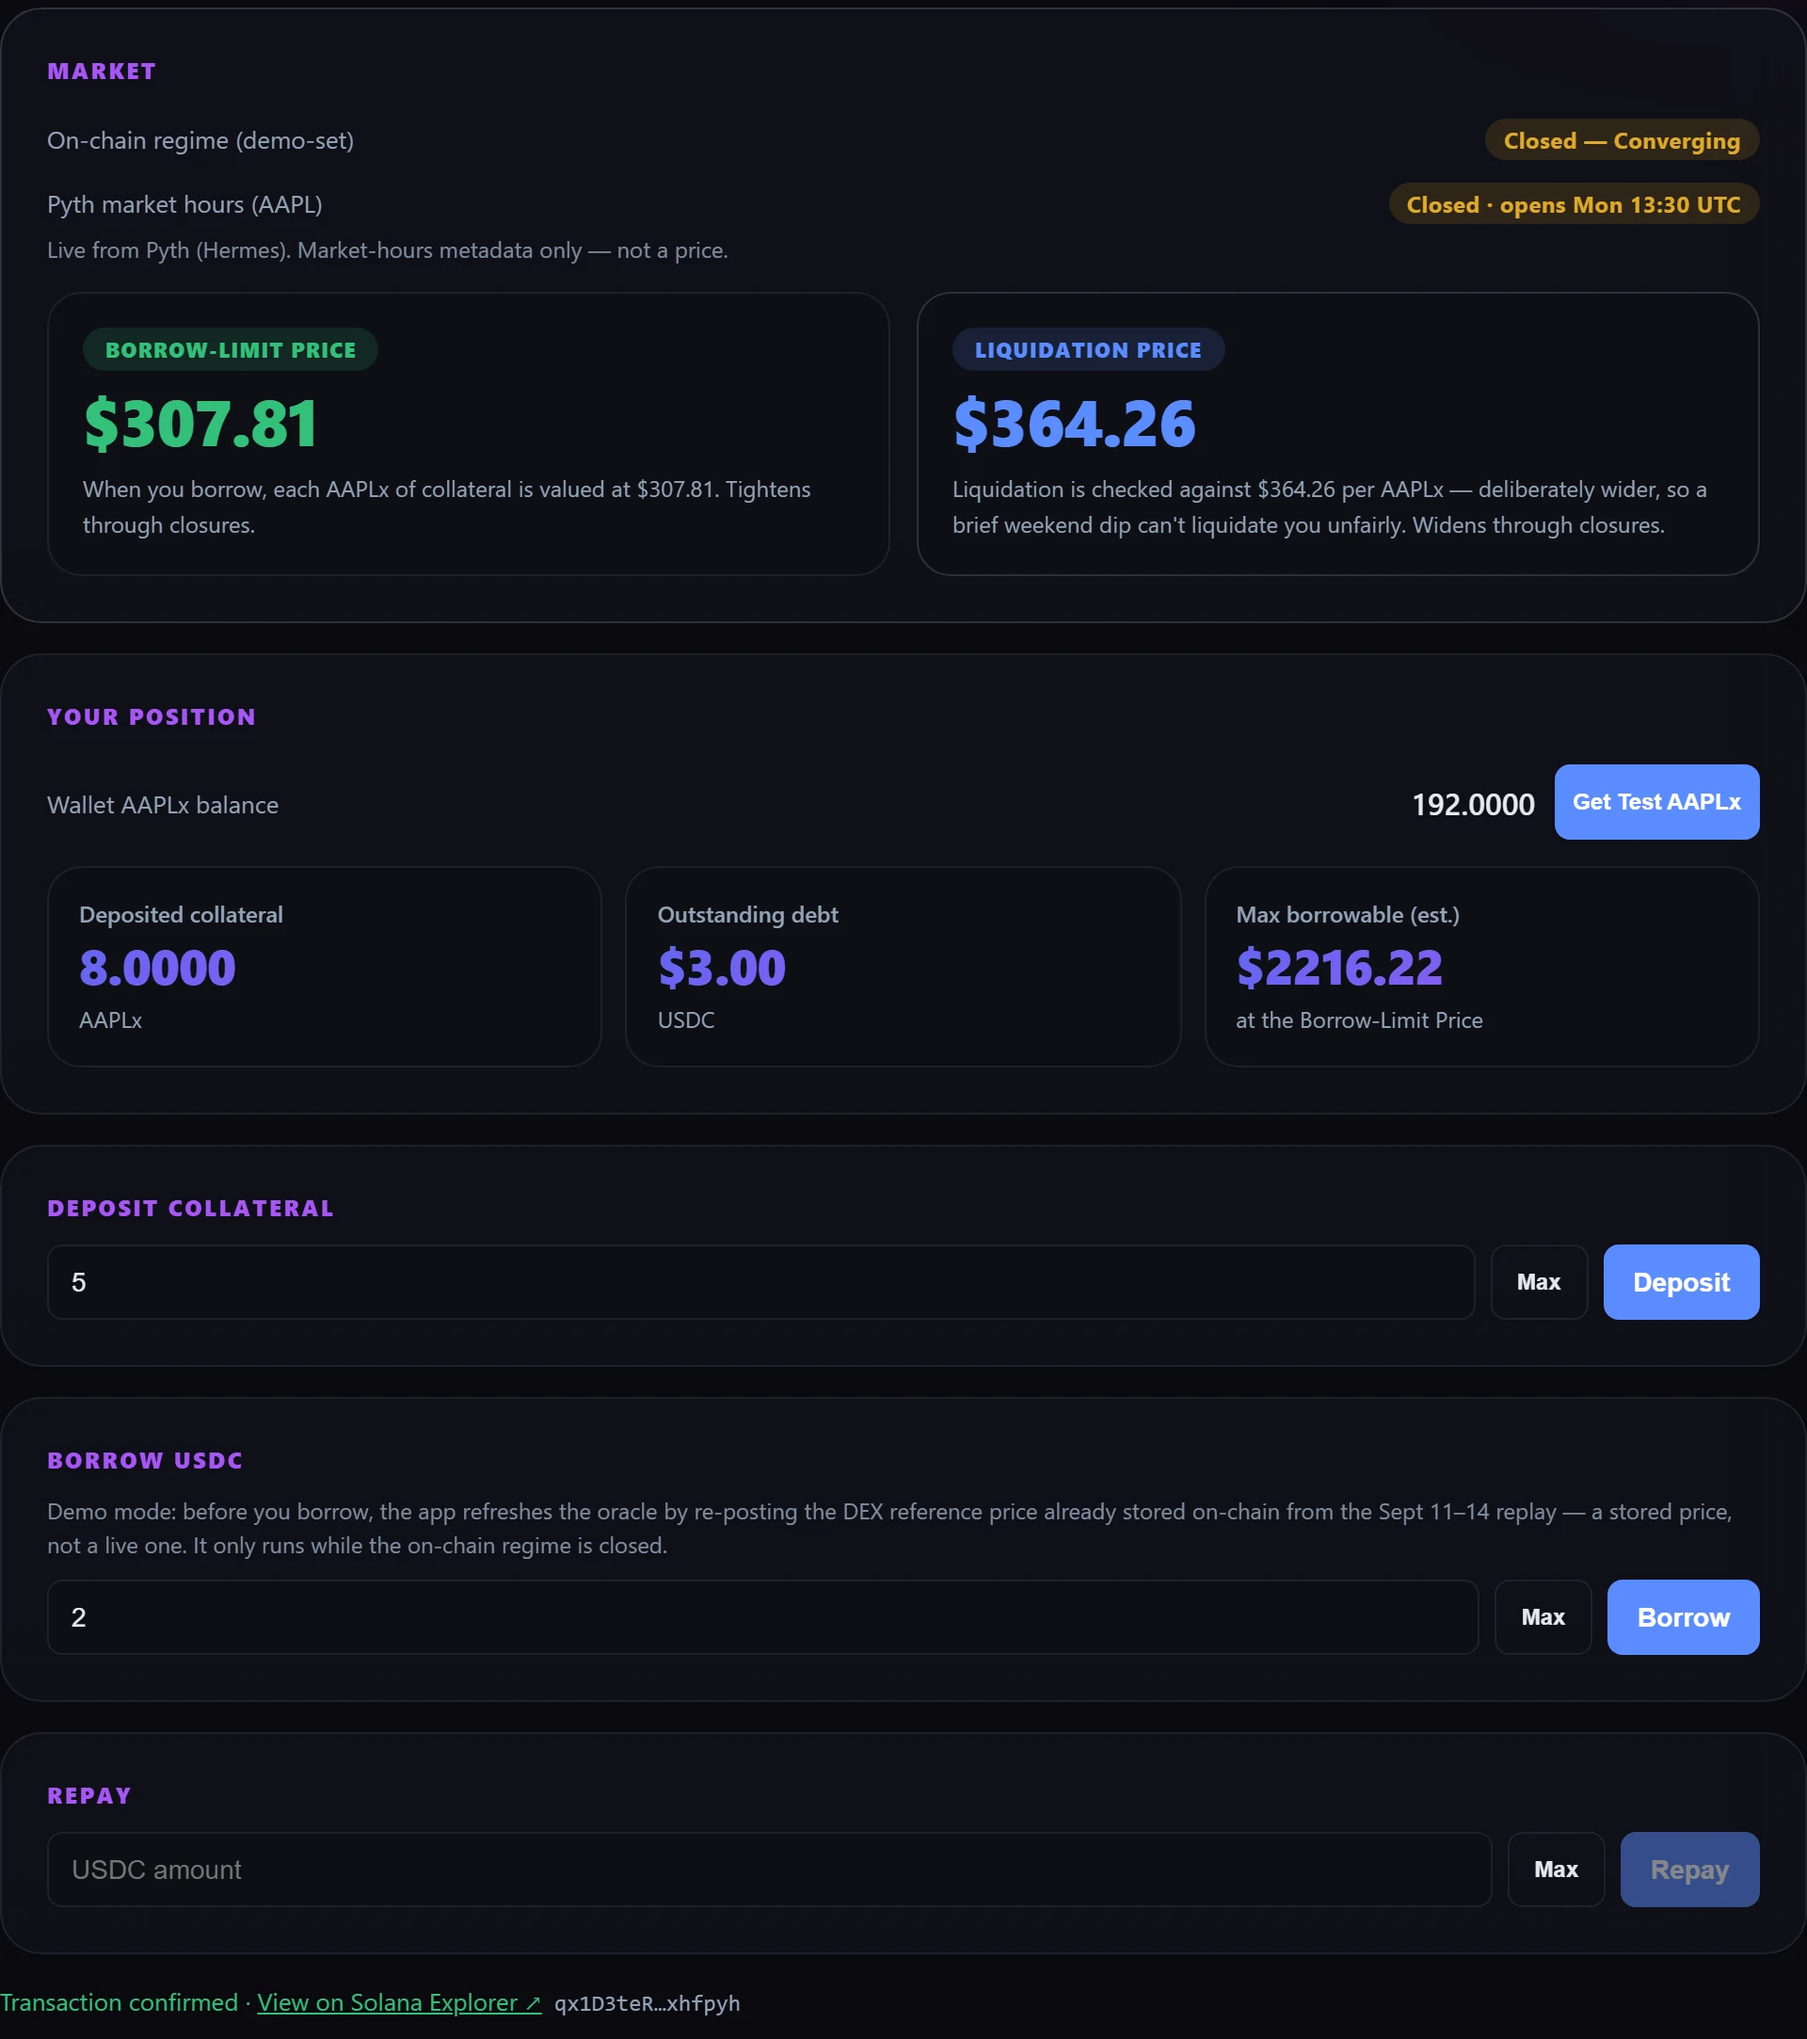
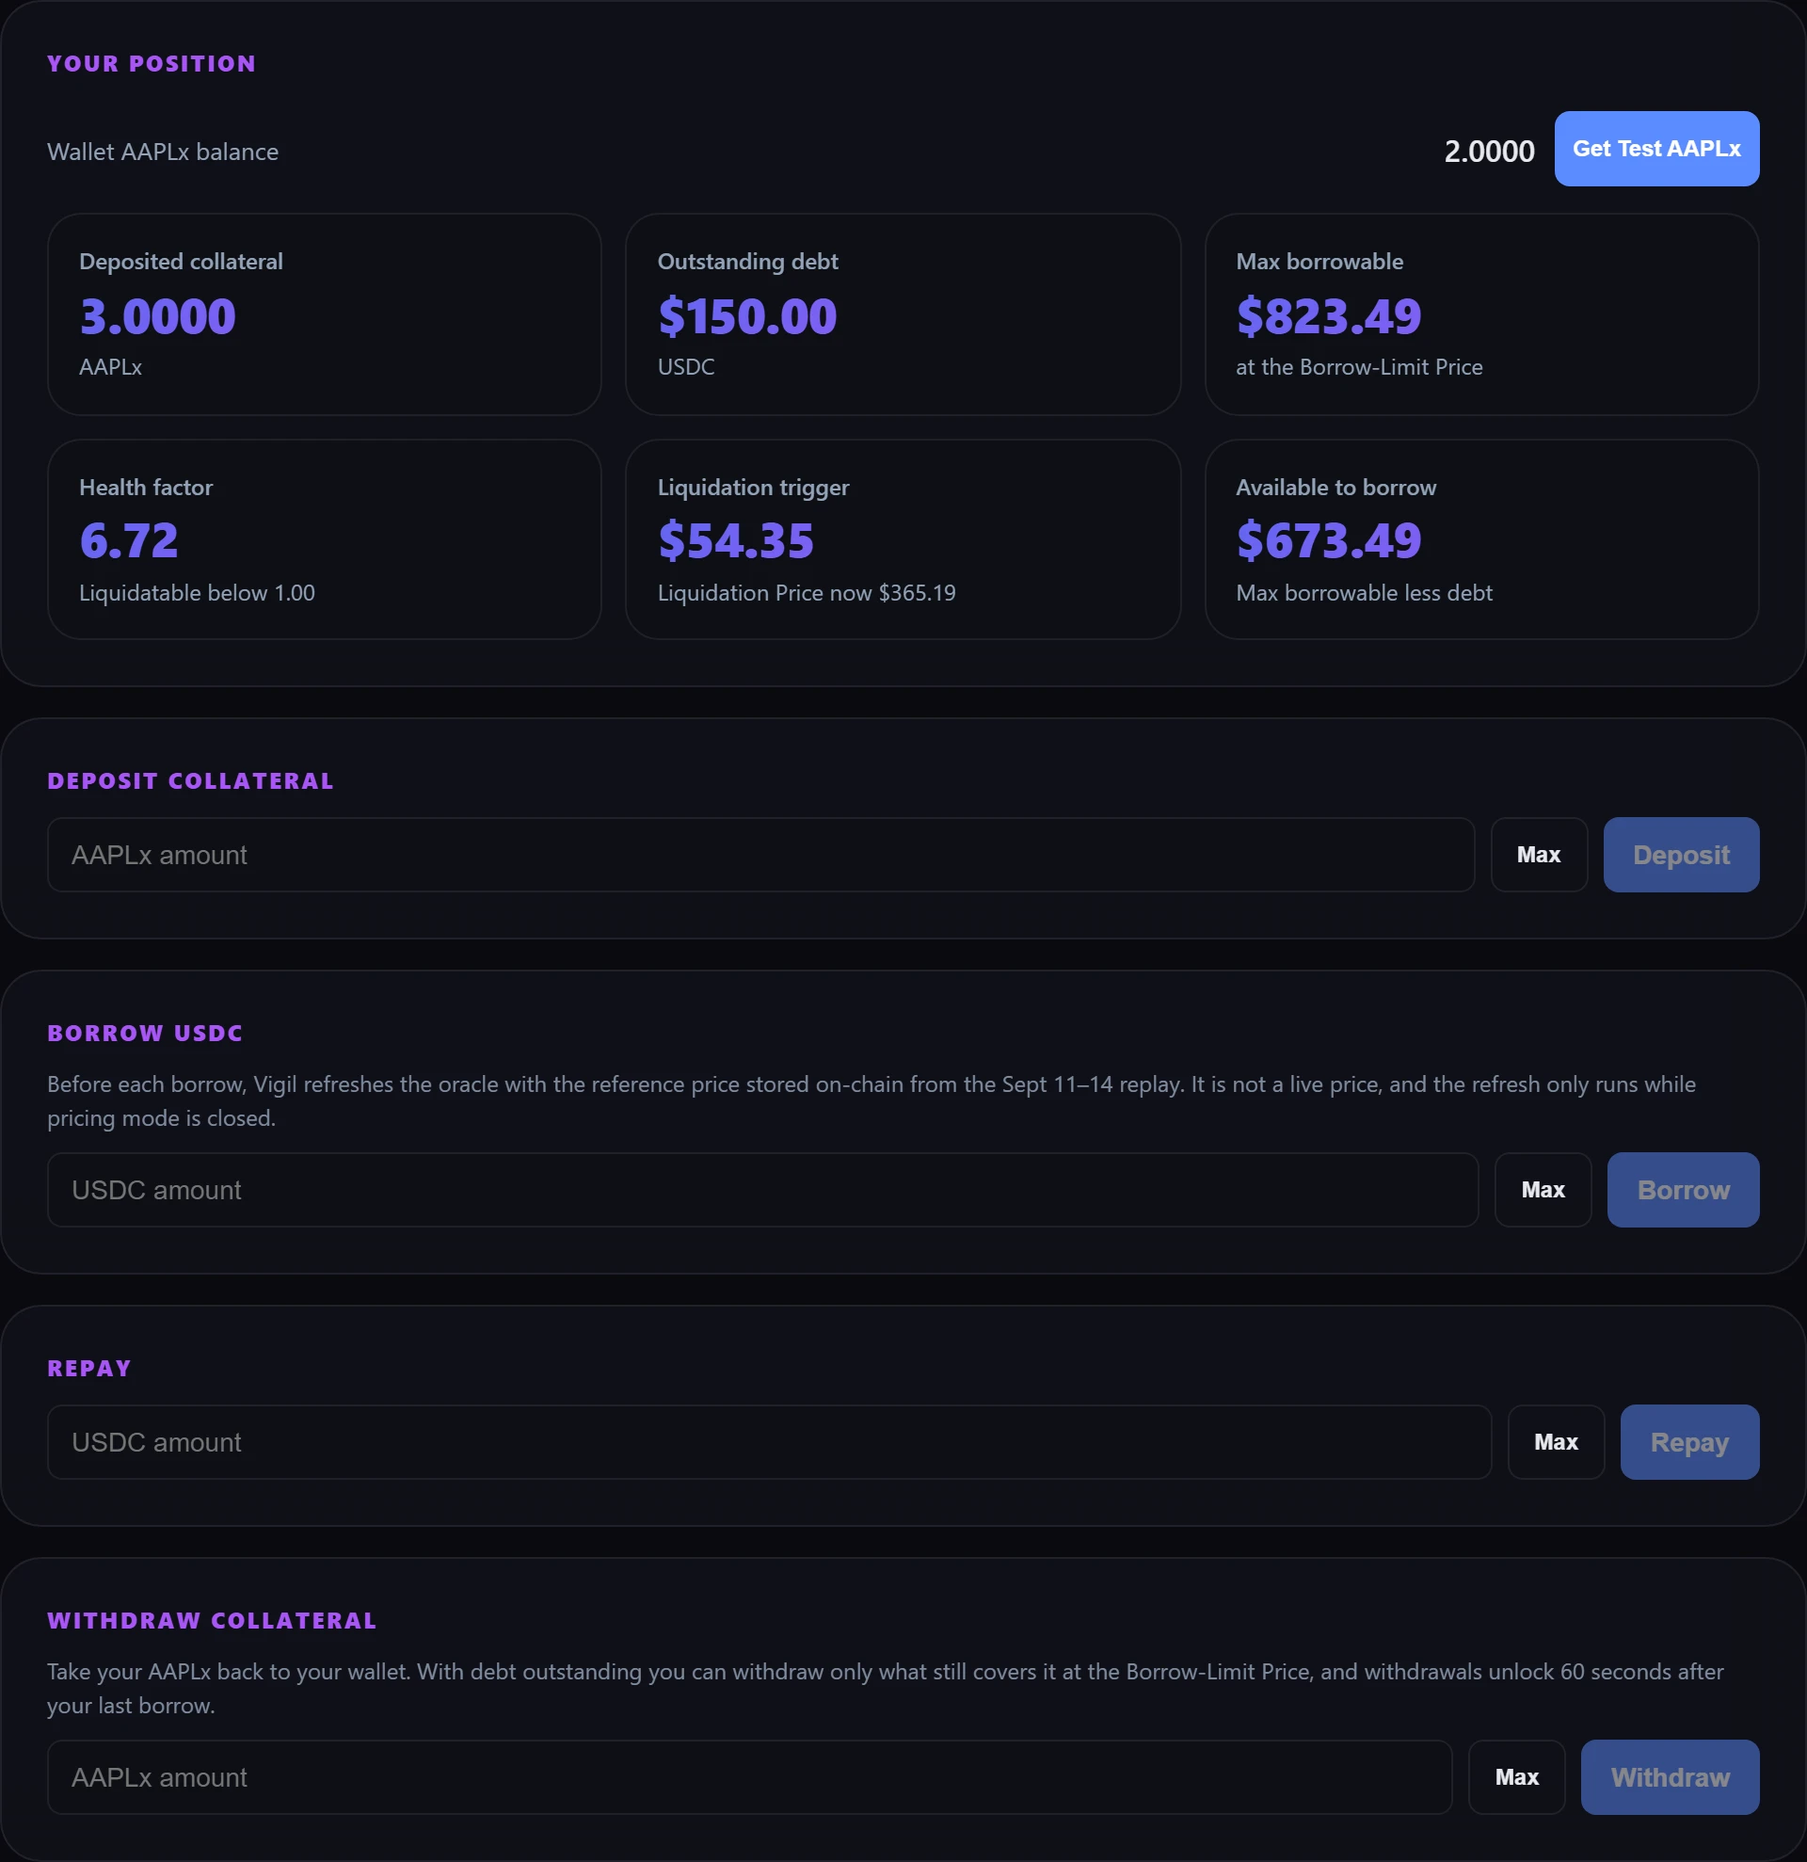
Replace the stale dashboard images on the landing page with the current app
The "What you actually do" section still showed the pre-redesign dashboard: "Demo mode: before you borrow…",
"Max borrowable (est.)", no health factor and no Withdraw form. Both images are regenerated from the current app with a
real position on devnet (an injected-wallet run: deposit 3 AAPLx and borrow $150 through the UI, then repay and withdraw
so the reserve is left as found).

Desktop (1920x1978): Your Position with deposited collateral, debt, max borrowable, health factor 6.72, liquidation
trigger and available to borrow, above the Deposit, Borrow, Repay and Withdraw forms. Mobile (780x1520): the position
summary on a phone. The page text was asserted before capture (Health factor, Liquidation trigger and Withdraw present,
no "Demo mode"). Alt text and intrinsic dimensions on the landing page updated to match.

diff --git a/app/components/LandingSections.tsx b/app/components/LandingSections.tsx
@@ -171,9 +171,9 @@ export function AppShowcase() {
                 <img
                   src="/img/dashboard-desktop.webp"
                   width={1920}
-                  height={2166}
+                  height={1978}
                   loading="lazy"
-                  alt="The Vigil dashboard with a connected wallet: live market panel, a position of 8 AAPLx deposited with 3 USDC borrowed, and deposit, borrow and repay forms."
+                  alt="The Vigil dashboard with a connected wallet and an open position: 3 AAPLx deposited, $150 borrowed, a health factor of 6.72 with the liquidation trigger and what is still available to borrow, above the deposit, borrow, repay and withdraw forms."
                 />
               </figure>
               <figure className="phone-frame">
@@ -182,7 +182,7 @@ export function AppShowcase() {
                   width={780}
                   height={1520}
                   loading="lazy"
-                  alt="The same dashboard on a phone: position summary and deposit, borrow and repay forms."
+                  alt="The same dashboard on a phone: the position summary with deposited collateral, debt, health factor, liquidation trigger and available-to-borrow."
                 />
               </figure>
             </div>
